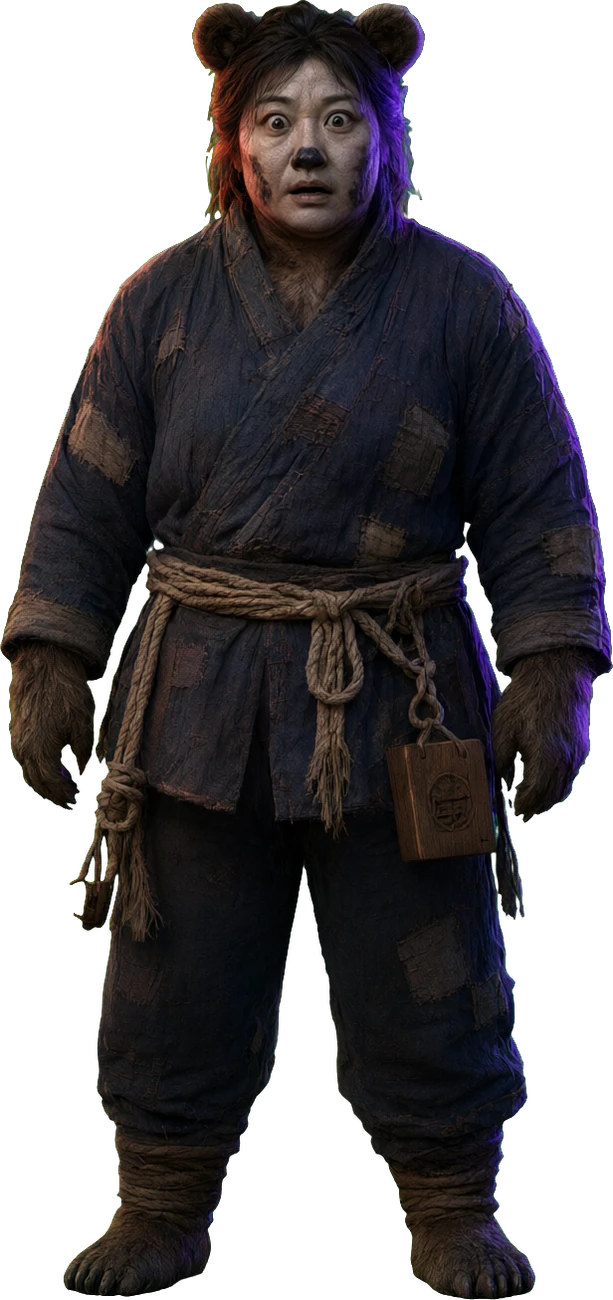
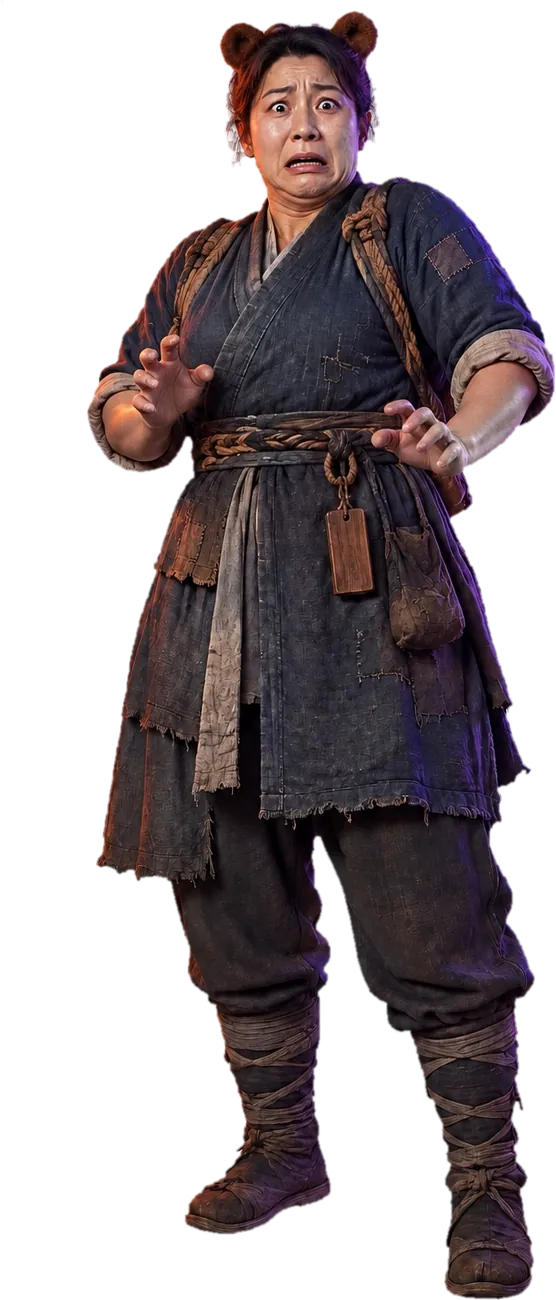
灰巧锁、鸮更夜、熊砚枝立绘重画：人形为主，只留鼠耳鼠尾、鸮羽耳羽披、熊耳
gpt-image-2.5-sunburst-adobe，底图加六种神态各 7 张，审过才换上；年龄、性别、故事不变。
顺带修了两处抠图毛病：
- 模型常把透明底画成假的灰白格子。胳膊与身子之间这种围住的空当，和边缘不连通，原先抠不掉。
  postprocess 加 enclosed_checker：剩下的格子色区域，深浅两种灰各占三成以上才算真格子，一并抠掉。
  只用于人物立绘；对旧图回归比过（39 张带假格子的原图里 16 张有变化，13 张正是残留空当，
  物品图 vine_seed_high 有误判，故物品不用）。已上线的旧图不会重处理
- 受控神态的头顶黑雾，模型会把半透明的雾画在假格子上，怎么抠都留一圈斑点。
  这三位改让模型画不带雾的受控神态（moodArt 记着），再用 tools/art/thrall_mist.py 在头后补一团淡淡暗雾

diff --git a/js/cast/xiong_yanzhi.js b/js/cast/xiong_yanzhi.js
@@ -11,6 +11,7 @@ defineCharacter(ecologyCharacter({
   "art": "a 39-year-old Chinese woman, a bear spirit who has fully taken human form: a fully human face with normal human skin, a warm weathered good-natured face with rosy cheeks, short thick dark hair tied back, the only animal traits are a pair of small round brown bear ears on top of her head; tall broad strong thickset build, human hands, a patched indigo lifting jacket with rolled sleeves showing strong forearms, a heavy rope lifting harness over her shoulders, a wooden cargo tally at her belt, sturdy cloth boots",
   "artProvider": "gpt",
   "artModel": "gpt-image-2.5-sunburst-adobe",
+  "moodArt": { "thrall": "mind-controlled thrall: eyes completely clouded milky white without pupils, blank slack face, black veins spreading over the face and neck. Nothing around the head: no mist, no smoke, no glow, plain transparent background around the figure" },
   "problem": "替军坊搬货伤了肩，领工却说妖族不算工伤，她想赎回押下的工资牌。",
   "pressure": "货主拿一只裂箱来索赔，逼她带伤再运一趟危险货。",
   "success": "她带着一群搬工立了称重规矩，肩伤也有了歇养时日。",

diff --git a/js/cast/xiao_gengye.js b/js/cast/xiao_gengye.js
@@ -11,6 +11,7 @@ defineCharacter(ecologyCharacter({
   "art": "a 44-year-old Chinese woman, an owl spirit who has fully taken human form: a fully human face with normal human skin and mature calm features, large watchful dark amber eyes, long grey-streaked black hair pinned up, the only animal traits are two small feathered owl ear tufts rising from her hair and a short brown-and-white feather capelet on her shoulders; human hands, a dark plum night-watch coat, wooden watch clappers in one hand and a shuttered lantern in the other, cloth boots, quiet and alert",
   "artProvider": "gpt",
   "artModel": "gpt-image-2.5-sunburst-adobe",
+  "moodArt": { "thrall": "mind-controlled thrall: eyes completely clouded milky white without pupils, blank slack face, black veins spreading over the face and neck. Nothing around the head: no mist, no smoke, no glow, plain transparent background around the figure" },
   "problem": "连夜被人敲开的仓门没有脚印，她想修一副能辨回声的更梆。",
   "pressure": "仓主让她改夜更记录，掩住早已空掉的粮仓。",
   "success": "更梆敲回旧时辰，空仓的日子对上了粮船账。",

diff --git a/js/cast/hui_qiaosuo.js b/js/cast/hui_qiaosuo.js
@@ -11,6 +11,7 @@ defineCharacter(ecologyCharacter({
   "art": "a 31-year-old Chinese man, a rat spirit who has fully taken human form: a fully human face with normal human skin, nose and mouth, sharp clever eyes, a neat short beard, the only animal traits are a pair of small rounded grey rat ears among his short dark hair and a thin grey tail behind him; short lean wiry build, human hands, a charcoal locksmith apron over a plain grey tunic, a ring of tiny brass keys at his belt, holding a closed bronze lockbox, cloth shoes, alert and wary",
   "artProvider": "gpt",
   "artModel": "gpt-image-2.5-sunburst-adobe",
+  "moodArt": { "thrall": "mind-controlled thrall: eyes completely clouded milky white without pupils, blank slack face, black veins spreading over the face and neck. Nothing around the head: no mist, no smoke, no glow, plain transparent background around the figure" },
   "problem": "给客人修锁却修出了监仓的刻号，他想查清锁匣究竟属于谁。",
   "pressure": "失匣的仓吏要他交出开锁手艺，给以后每次失窃顶罪。",
   "success": "锁匣按号归还，锁匠把仓钥的拓印烧了。",

diff --git a/tools/art/postprocess.py b/tools/art/postprocess.py
@@ -73,17 +73,40 @@ def border_levels(rgb, border):
     return [sum(x) / len(x) for x in (lo, hi) if x]
 
 
-def ensure_alpha(im):
+def enclosed_checker(m, rgb, levels, min_px=300):
+    """胳膊与身子之间这类围住的空当，格子和边缘不连通，泛洪抠不到。
+    把 m 里剩下的每块格子色区域量一量：深浅两种灰各占三成以上才是真格子，标成 128 一并抠掉；
+    白衣、白发、灰布多半只有一种灰，留着（标 64，免得重复量）"""
+    mx = ImageChops.lighter(ImageChops.lighter(*rgb.split()[:2]), rgb.split()[2])
+    lo, hi = levels
+    w, h = m.size
+    for y in range(0, h, 6):
+        for x in range(0, w, 6):
+            if m.getpixel((x, y)) != 255: continue
+            ImageDraw.floodfill(m, (x, y), 32, thresh=0)
+            region = m.point(lambda v: 255 if v == 32 else 0)
+            hist = mx.histogram(mask=region)
+            n = sum(hist)
+            dark = sum(hist[max(0, int(lo) - 16):int(lo) + 17])
+            light = sum(hist[max(0, int(hi) - 16):int(hi) + 17])
+            real = n >= min_px and dark >= n * 0.3 and light >= n * 0.3
+            ImageDraw.floodfill(m, (x, y), 128 if real else 64, thresh=0)
+
+
+def ensure_alpha(im, enclosed=False):
     im = im.convert('RGBA')
     if im.getchannel('A').getextrema()[0] < 250: return im
     w, h = im.size
     rgb = im.convert('RGB')
     border = [(x, y) for x in range(0, w, 16) for y in (0, h - 1)] + [(x, y) for y in range(0, h, 16) for x in (0, w - 1)]
-    m = checker_mask(rgb, border_levels(rgb, border))
+    levels = border_levels(rgb, border)
+    m = checker_mask(rgb, levels)
     if sum(m.getpixel(p) for p in border) / 255 > len(border) * 0.6:
         # 模型把透明底画成了灰白格子：只抠与边缘连通的格子，人物身上的白发白衣不受影响
         for p in border:
             if m.getpixel(p) == 255: ImageDraw.floodfill(m, p, 128, thresh=0)
+        # 只给人物立绘抠围住的格子：物品图上的灰白斑纹会被误认
+        if enclosed and levels and len(levels) == 2: enclosed_checker(m, rgb, levels)
         bg = m.point(lambda v: 255 if v == 128 else 0).filter(ImageFilter.MaxFilter(5))
     else:
         # 纯色底：四角泛洪
@@ -134,7 +157,7 @@ def process():
                 w, h = cells(name)
                 save(fit(ensure_alpha(im), w * CELL, h * CELL), dir, name)
             elif dir == 'chars':
-                im = trim(ensure_alpha(im))
+                im = trim(ensure_alpha(im, enclosed=True))
                 s = 1300 / im.height
                 save(im.resize((round(im.width * s), 1300), Image.LANCZOS), dir, name, 80)
             elif dir == 'scene':

diff --git a/tools/art/thrall_mist.py b/tools/art/thrall_mist.py
@@ -1,0 +1,43 @@
+#!/usr/bin/env python3
+"""受控神态的头顶黑雾，改成程序后加：gpt-image 画半透明的雾时常把雾画在假的灰白格子上，抠不干净。
+先让模型画不带雾的受控神态（抠图干净），再用本脚本在头后面铺一团淡淡的暗雾，存回带透明的原图，postprocess 原样收下。
+用法：python3 tools/art/thrall_mist.py <面孔> [...]   例：python3 tools/art/thrall_mist.py hui_qiaosuo
+处理 art/raw/chars/<面孔>_thrall.png；同一张脸每次加出来的雾一样（按名字定随机种子）。"""
+import os, random, sys
+from PIL import Image, ImageDraw, ImageFilter
+sys.path.insert(0, os.path.dirname(__file__))
+from postprocess import ensure_alpha
+
+RAW = os.path.normpath(os.path.join(os.path.dirname(__file__), '../../art/raw/chars'))
+
+
+def add_mist(name):
+    path = os.path.join(RAW, f'{name}_thrall.png')
+    fig = ensure_alpha(Image.open(path), enclosed=True)
+    w, h = fig.size
+    a = fig.getchannel('A')
+    l, t, r, b = a.getbbox()
+    # 头：人物最上面约六分之一；横向取这一段不透明像素的 10%–90% 分位，免得抠图边上几点残渣把头量宽
+    head_h = (b - t) // 6
+    xs = sorted(x for y in range(t, t + head_h, 2) for x in range(l, r, 2) if a.getpixel((x, y)) > 200)
+    if not xs: xs = [(l + r) // 2]
+    x0, x1 = xs[len(xs) // 10], xs[len(xs) * 9 // 10]
+    cx, cy, rad = (x0 + x1) // 2, t + head_h // 2, max(60, (x1 - x0) * 0.9)
+    rng = random.Random(name)
+    mist = Image.new('L', (w, h), 0)
+    d = ImageDraw.Draw(mist)
+    for _ in range(90):
+        ang, dist = rng.uniform(0, 6.283), rng.uniform(0.2, 1.0) * rad
+        x, y = cx + dist * rng.uniform(-1.2, 1.2), cy + dist * rng.uniform(-1.0, 0.7)
+        s = rng.uniform(0.12, 0.32) * rad
+        d.ellipse((x - s, y - s, x + s, y + s), fill=rng.randint(40, 110))
+    mist = mist.filter(ImageFilter.GaussianBlur(rad * 0.18)).point(lambda v: min(150, int(v * 1.6)))
+    layer = Image.new('RGBA', (w, h), (58, 48, 70, 0))
+    layer.putalpha(mist)
+    layer.alpha_composite(fig)
+    layer.save(path)
+    print(f'{name}_thrall：头在 ({cx}, {cy})，雾半径 {int(rad)}')
+
+
+if __name__ == '__main__':
+    for n in sys.argv[1:] or sys.exit(__doc__): add_mist(n)
